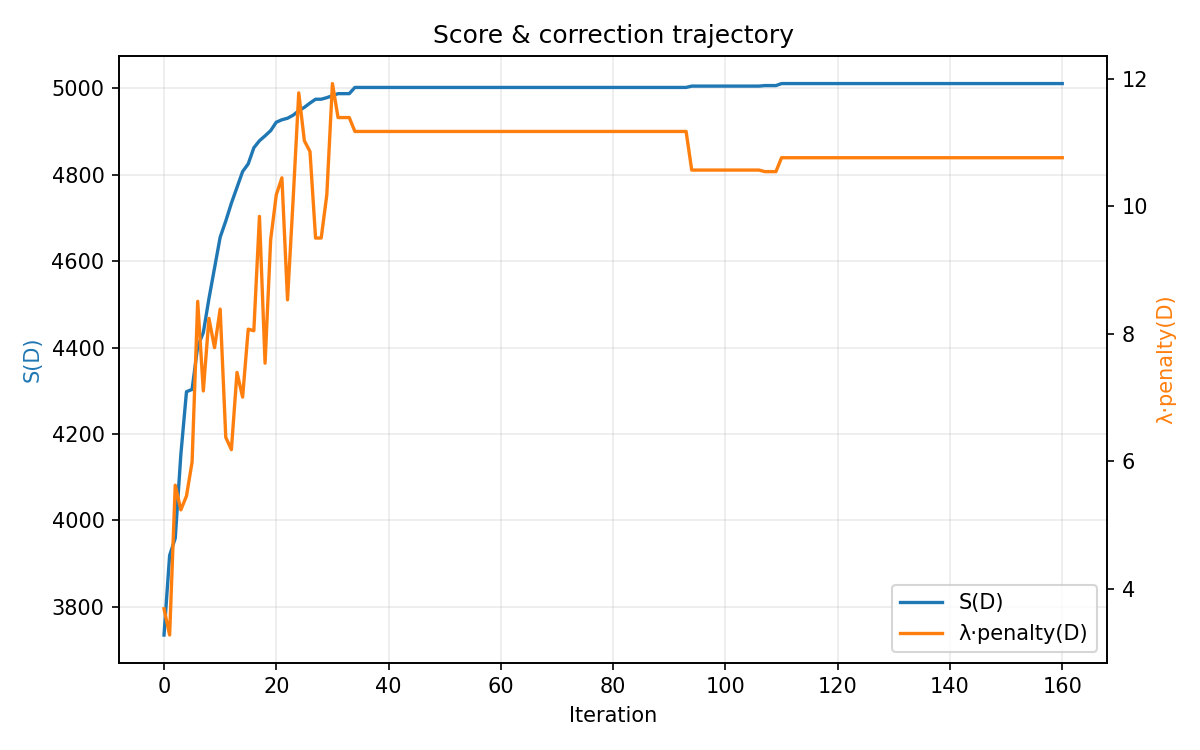
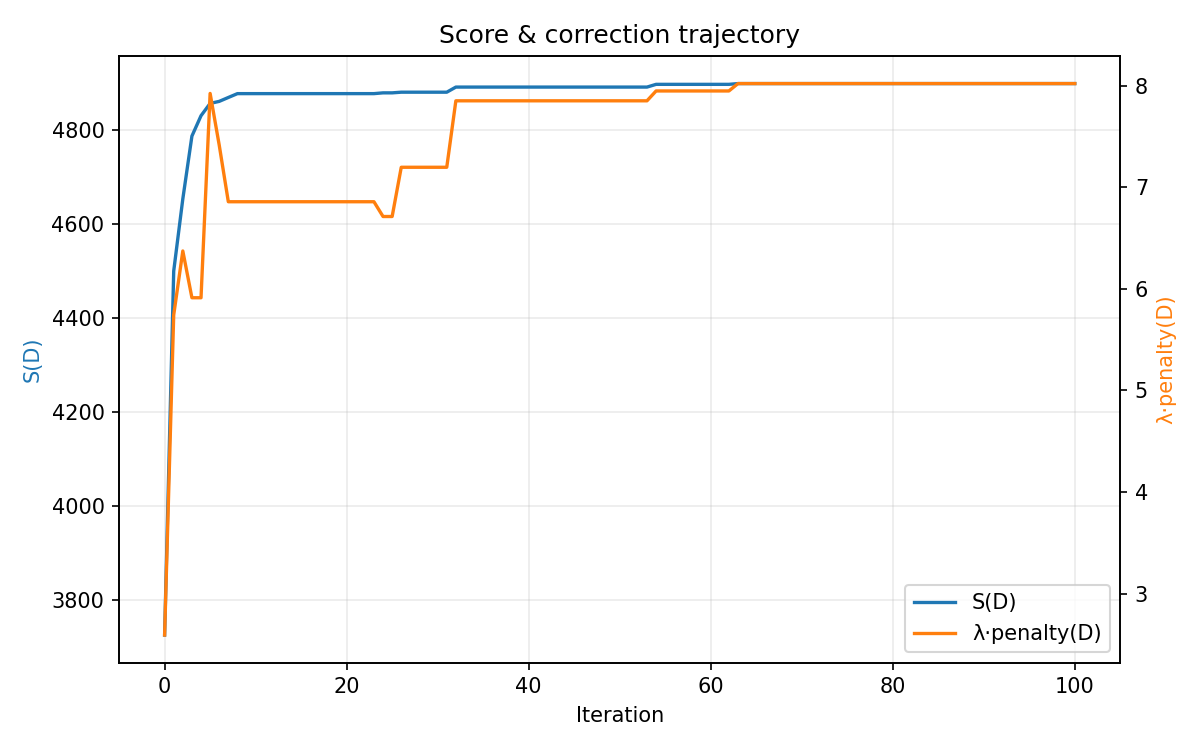
xxx

diff --git a/calculate_my_mask.py b/calculate_my_mask.py
@@ -276,8 +276,8 @@ def select_group_mask(
     else:
         target_size = 0
 
-    ga_population_size = 16
-    ga_generations = 160
+    ga_population_size = 8
+    ga_generations = 100
     ga_offspring = ga_population_size
     lambda_sample_M = DEFAULT_M
     lambda_ratio_r = DEFAULT_R
@@ -302,7 +302,7 @@ def select_group_mask(
     mut_levels = [mut_min + level_idx * mut_step for level_idx in range(4)]
 
     C_MAX = 0.8
-    c_min = 0.7 - 0.2 * cr_ratio
+    c_min = 0.7 - 0.2 * (1 - cr_ratio)
     c_step = (C_MAX - c_min) / 3.0
     c_levels = [c_min + level_idx * c_step for level_idx in range(4)]
 
